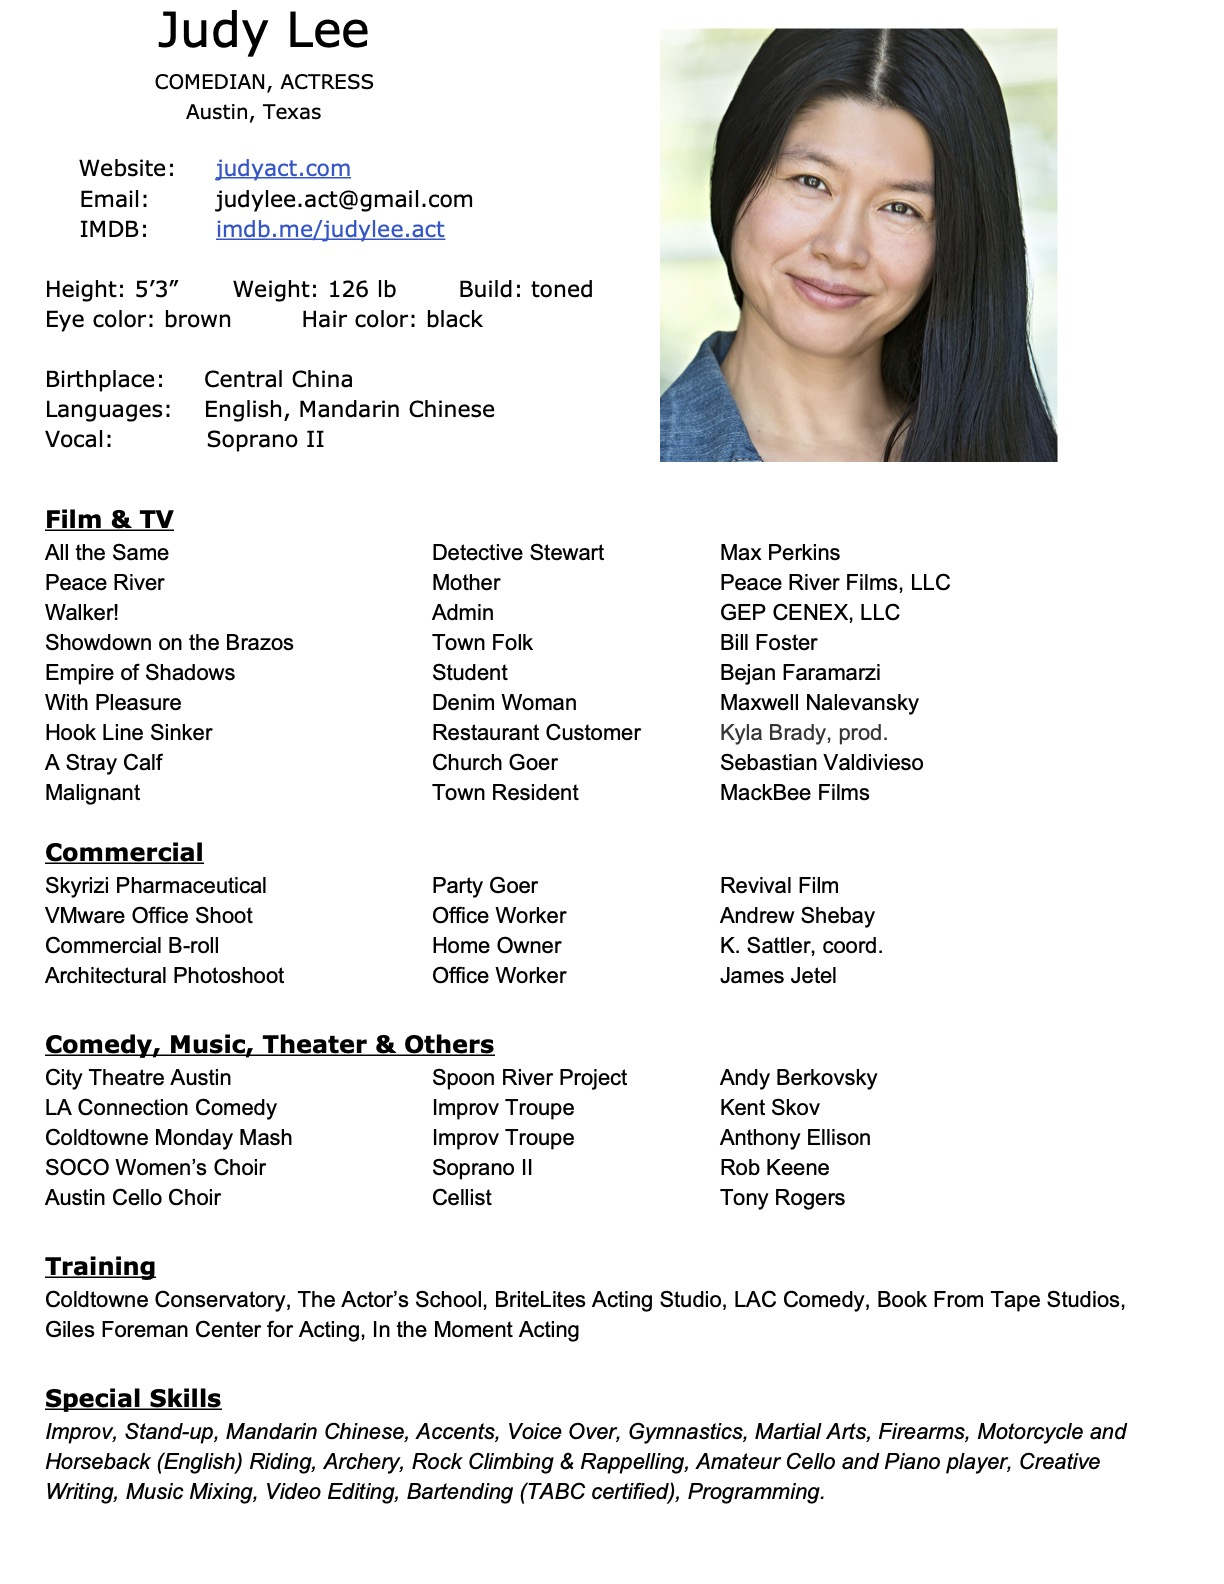
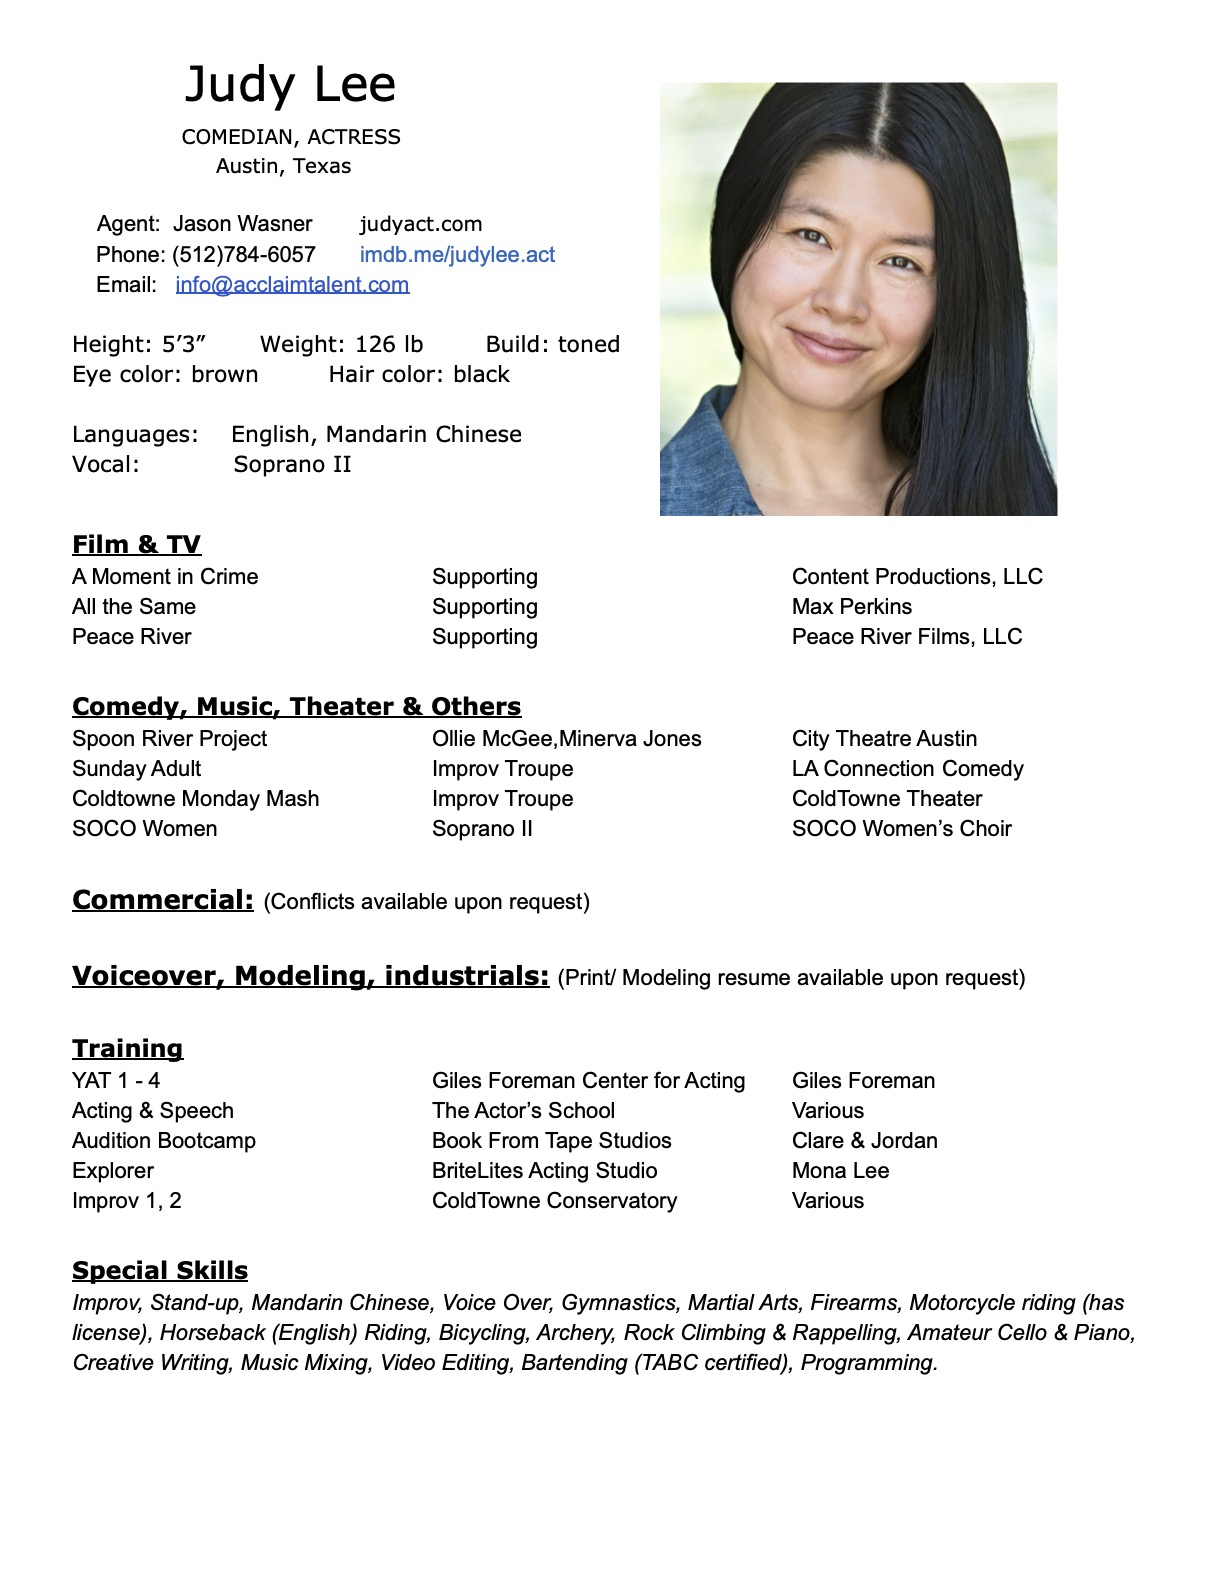
Update resume.

diff --git a/hamburger_button.js b/hamburger_button.js
@@ -16,7 +16,7 @@ class App extends React.Component {
     console.log(val);
     
     if (val.localeCompare('Resume') == 0) {
-      window.location.href="https://drive.google.com/file/d/16j-F2xsdyPKd8Z347OMRR2WiUyTtrtoR/view?usp=sharing";
+      window.location.href="https://drive.google.com/file/d/1JO_yzbxhvVVqwJQ514AhSd1uvVPqlhDD/view?usp=sharing";
     } else if (val.localeCompare('Voice Over') == 0) {
       window.location.href="https://www.backstage.com/u/judy-lee/media/audio/";
     } else if (val.localeCompare('Writing') == 0) {
